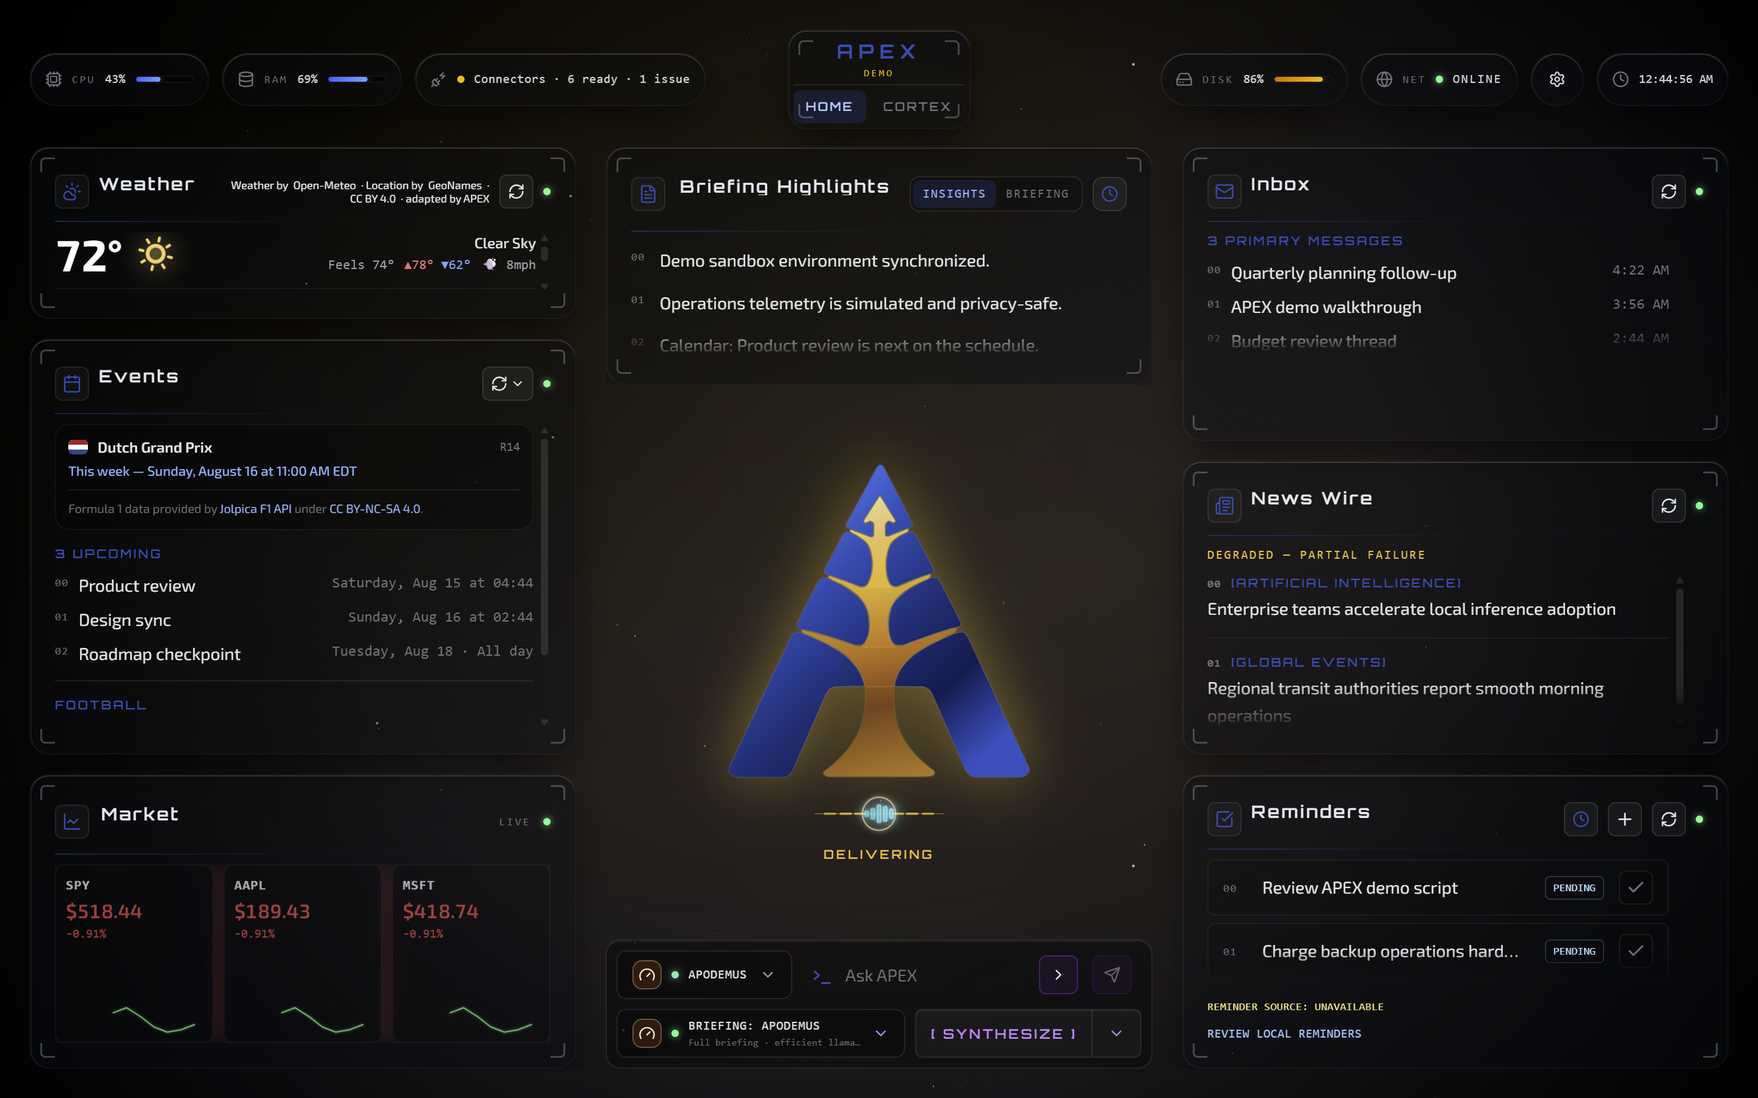
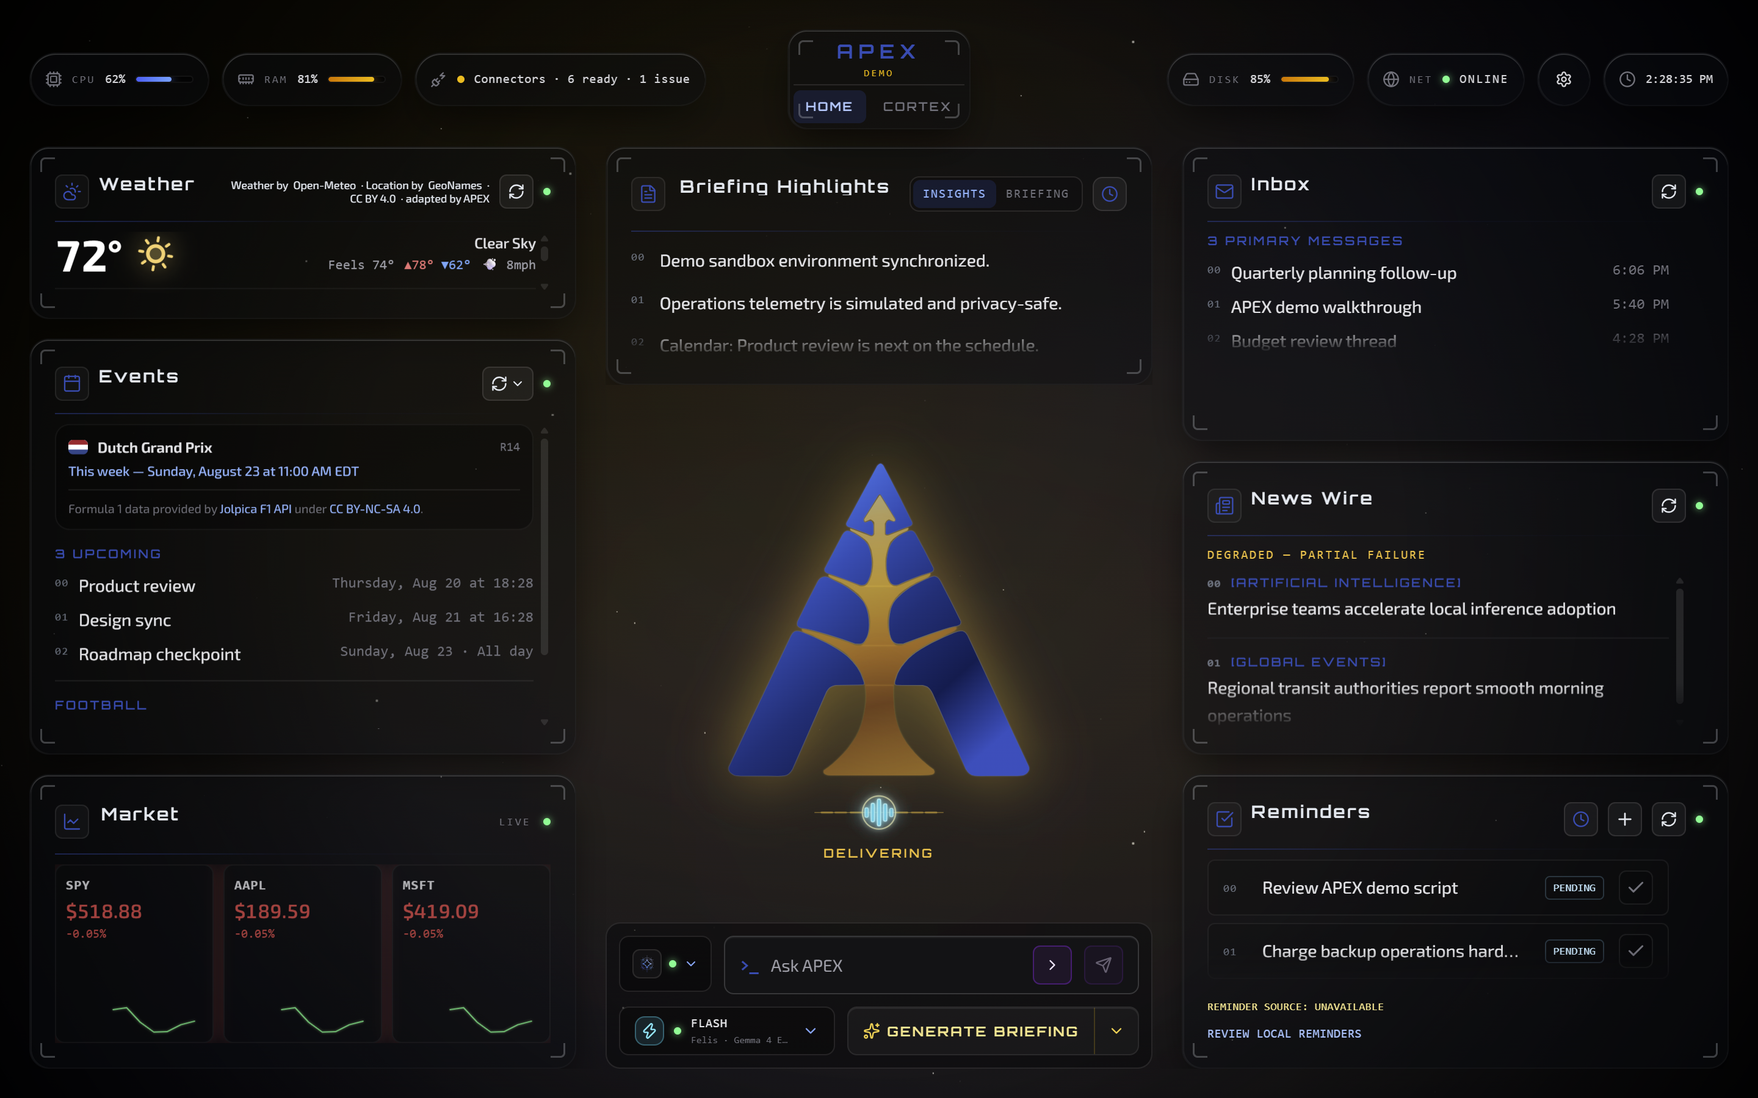
docs: reconcile and update documentation for the v2.0.0-beta.1 release (#369, #389)
Document the v2.0.0-beta.1 release, including persistent conversations, personal knowledge and retrieval, the Panthera/Felis model roster, and updated briefing modes.

diff --git a/scripts/check_docs.py b/scripts/check_docs.py
@@ -391,6 +391,10 @@ def check_release_version(root: Path) -> list[DocumentationIssue]:
     project_version = tomllib.loads(
         pyproject_path.read_text(encoding="utf-8")
     )["project"]["version"]
+    # Strip PEP 440 pre/post-release suffix (e.g. "2.0.0b1" -> "2.0.0") so
+    # the comparison works against the X.Y.Z extracted from changelog headings.
+    base_version = re.match(r"(\d+\.\d+\.\d+)", project_version)
+    comparable_version = base_version.group(1) if base_version else project_version
     match = RELEASE_HEADING_PATTERN.search(changelog_path.read_text(encoding="utf-8"))
     if match is None:
         return [
@@ -401,7 +405,7 @@ def check_release_version(root: Path) -> list[DocumentationIssue]:
                 "released changelog version could not be determined",
             )
         ]
-    if project_version == match.group(1):
+    if comparable_version == match.group(1):
         return []
     return [
         DocumentationIssue(

diff --git a/CHANGELOG.md b/CHANGELOG.md
@@ -2,44 +2,58 @@
 
 ---
 
-## Unreleased - Agent Family Consolidation (Checkpoint 0)
+## v2.0.0-beta.1 - Cortex: Persistent Context, World Model & Retrieval
 
-**In progress:** August 15, 2026
+**Released:** August 20, 2026
 
-APEX now exposes two Apex Agents: Panthera for cloud work and Felis for local work. Model, context, reasoning, effort, and hosted-tool settings live underneath those identities instead of in separate genus-based Agent names; each model profile determines its provider or local runtime. Panthera and Felis are at version 2.0.
+This milestone adds persistent conversation history, a personal knowledge store, and retrieval to Cortex, and consolidates the Agent roster to Panthera and Felis. Conversations are kept in SQLite across restarts. When the user shares information worth keeping, Cortex can store it as a structured knowledge record; retrieval then pulls relevant records and conversation history into each query automatically. An OpenRouter provider adds DeepSeek V4 Flash as the default cloud briefing model. Briefing modes are simplified to Flash (local), Focused (cloud), and Structured Digest. The Cortex Workspace moves to assistant-ui for thread management, and Home selectors now let you pick a model directly rather than an Agent name.
 
 ---
 
 ### What's New
 
-- Consolidated the product roster to Panthera and Felis. Former Agent identities such as Apodemus, Neotoma, Acinonyx, Neofelis, Delphinus, Orcinus, Sorex, and Mus are retired rather than migrated at runtime; existing local Agent settings must be updated to the Panthera/Felis model-first format.
-- Introduced Felis as the durable local Agent identity.
-- Moved cloud and local model catalogs under Panthera and Felis settings (`ask_apex.panthera`, `ask_apex.felis`) with schema version `16`; persisted route settings contain only the selected model.
-- Renamed llama.cpp router presets from Agent-based aliases such as `apodemus-16k` to model-based aliases such as `gemma-4-e2b-16k`; existing Agent-based aliases must be updated in machine-local presets.
-- Updated briefing modes to `panthera`, `felis`, and `structured_digest`, with Panthera falling back to Felis and then Structured Digest.
-- Replaced the Acinonyx-specific development sandbox with `ask_apex.sandbox_mode` under `DEV_MODE`, using the `sandbox` history partition and a restricted non-personal tool allowlist.
+- Cut the Agent roster to two: **Panthera** for cloud inference and **Felis** for local inference. Model profiles, context windows, effort levels, reasoning modes, and hosted tool settings live under each identity. The former genus-based Agent names (Apodemus, Neotoma, Acinonyx, etc.) are retired.
+- Added an OpenRouter provider. DeepSeek V4 Flash is now the default model for cloud briefing synthesis, replacing the previous OpenAI path.
+- Conversation history is now stored in SQLite and survives restarts and page reloads. Threads and messages are associated with sessions and can be branched.
+- The Cortex Workspace uses assistant-ui for the conversation rail, thread navigation, message branching, and response cards. Response metric cards are collapsible.
+- Added a personal knowledge store. Records carry source references, aliases, relationships, and lifecycle status.
+- When a conversation contains information worth keeping (preferences, decisions, observations, etc.), Cortex can extract it into the knowledge store. Conversation text stays separate from stored knowledge.
+- Added retrieval combining BM25 full-text search and vector embeddings. Relevant knowledge and conversation history are assembled into each Cortex query automatically, within a configurable token budget. A Context Inspector shows what was retrieved.
+- Added `search_apex_docs`, a native tool that searches `README.md` and `docs/**/*.md` using the same retrieval stack. Results are labeled as untrusted references in the UI.
+- Briefing modes are now Flash (local Felis), Focused (cloud Panthera via OpenRouter), and Structured Digest (no model). Automatic voice playback no longer triggers for raw Structured results.
+- Home model and briefing selectors now expose individual model choice, context-window size, reasoning mode, and effort level directly, rather than selecting a named Agent.
+- Added `ask_apex.sandbox_mode` under `DEV_MODE`. Sandbox queries use a separate history partition and a non-personal tool allowlist.
 
 ### Architecture Changes
 
-- Reduced `AGENT_SPECS` to Panthera and Felis in `core/agent/catalog.py`, with replaceable model profiles in `core/agent/model_catalog.py`.
-- Removed legacy Agent-key migration from settings normalization and model-catalog metadata; current settings resolve only through Panthera, Felis, and their selected model profiles.
-- Updated Cortex agent status, tool policy, synthesis routing, and local-model lifecycle to resolve configuration through Panthera and Felis.
+- `AGENT_SPECS` in `core/agent/catalog.py` now contains only Panthera and Felis. Model profiles in `core/agent/model_catalog.py` determine the provider and runtime; Agent-key migrations and legacy aliases are removed.
+- Conversation storage lives in `core/conversations/` and handles thread and message lifecycle, session metadata, and branching.
+- The knowledge store lives in `core/knowledge/` and persists entities, aliases, relations, and claims with UTC timestamps.
+- Retrieval lives in `core/retrieval/` and handles FTS5 + embedding-based search, documentation indexing, and incremental re-indexing on content changes.
+- `core/context/` assembles retrieved knowledge and conversation history into the prompt context for each Cortex request.
+- Added `core/agent/providers/openrouter.py` and `clients/openrouter_client.py` following the existing `InferenceProvider` contract.
+- Settings normalization bumped to schema version `16` with nested `ask_apex.panthera` and `ask_apex.felis` groups.
 
 ### API Changes
 
-- `GET /api/v1/agents` now returns Panthera and Felis with selected-model metadata and each Agent's `model_catalog`.
-- Settings and briefing contracts use schema version `16` with nested `panthera` and `felis` groups; provider/runtime routing is derived from the selected model.
+- `GET /api/v1/agents` returns Panthera and Felis with selected model metadata, availability status, and each Agent's `model_catalog`.
+- Added conversation endpoints under `/api/v1/cortex/conversations`: list, create, get, update, delete, and fork.
+- `POST /api/v1/cortex/query` now accepts `conversation_id`, `parent_message_id`, model overrides, and `history_partition: "sandbox"`.
+- Added `POST /api/v1/cortex/context/inspect` to expose what context was assembled for a request.
 - `POST /api/v1/cortex/local-model/load` accepts only `felis`.
-- `POST /api/v1/cortex/query` uses `history_partition: "sandbox"` for development sandbox queries.
+- Settings schema version is now `16`, with `panthera` and `felis` as top-level groups under `ask_apex`.
 
 ### Frontend Changes
 
-- Updated Agent selection, briefing controls, and Cortex inspector flows for the two-Agent model and per-Agent model catalogs.
+- Adopted `@assistant-ui/react` for the Cortex Workspace. Added `CortexConversationRail.tsx`, `CortexQueryBar.tsx`, `ContextInspector.tsx`, and `DocumentationSearchCard.tsx`.
+- `AgentSelector.tsx`, `ToolsSelector.tsx`, `HomeCommandRail.tsx`, and `SettingsPanel.tsx` updated for the two-Agent model catalog, briefing mode selector, and model override controls.
+- Chat layout refined: responsive logo placement, improved scrolling, and updated agent marks.
 
 ### Documentation Updates
 
-- Rewrote the Agent family guidance in `docs/identity-and-naming.md`, including Felis and Panthera 2.0 / Felis 2.0.
-- Updated `docs/api.md`, `docs/architecture.md`, `docs/configuration.md`, `docs/privacy.md`, `docs/cli.md`, `docs/getting-started.md`, `docs/decisions.md`, `docs/design-system.md`, `benchmarks/README.md`, `docs/examples/llama-cpp-apex-agents.preset.ini`, and `README.md`.
+- Rewrote `docs/identity-and-naming.md` for Panthera and Felis and the three briefing modes.
+- Updated `docs/api.md`, `docs/architecture.md`, `docs/configuration.md`, `docs/privacy.md`, `docs/cli.md`, `docs/getting-started.md`, `docs/decisions.md`, `docs/design-system.md`, and `README.md`.
+- Added assistant-ui MIT license notice to `THIRD_PARTY_NOTICES.md`.
 - Updated `scripts/check_docs.py` for the consolidated Agent and model documentation checks.
 
 ---

diff --git a/docs/identity-and-naming.md b/docs/identity-and-naming.md
@@ -33,14 +33,18 @@ Its outer shape forms an **A** and resembles the levels of a food-chain pyramid 
 ```text
 APEX
 ├── Home
+│   └── Briefing modes
+│       ├── Focused
+│       ├── Flash
+│       └── Structured
 └── Cortex
-    ├── Cortex workspace
+    ├── Cortex Workspace
     ├── Cortex Engine
     └── Apex Agents
         ├── Apex Panthera
-        │   └── Cloud model
+        │   └── Cloud models
         └── Apex Felis
-            └── Local model
+            └── Local models
 ```
 
 ### APEX
@@ -53,11 +57,23 @@ APEX
 
 Briefing modes are product behaviors, not Agent identities: **Flash**, **Focused**, and **Structured** are the only canonical mode names. Panthera and Felis remain Agent names used as resolved runtime metadata.
 
+### Briefing modes
+
+Briefing modes describe how APEX turns the current telemetry snapshot into a briefing. They are not Agents and do not identify the model that happens to execute them.
+
+**Focused** - the fuller analytical briefing. It uses a cloud model to interpret the available signals, identify priorities, conflicts, changes, and useful connections.
+
+**Flash** - the lightweight local briefing. It gives a quick view of what matters now and over the near term without the deeper analysis of Focused.
+
+**Structured** - the deterministic briefing. It presents the normalized facts directly without model interpretation.
+
+The names describe the kind of briefing being requested. Panthera and Felis may appear as runtime metadata when a model-backed mode is executed, but they remain Agent identities rather than briefing names.
+
 ### Cortex
 
 **Cortex** is where the operator interacts with the Agents in more detail.
 
-The **Cortex workspace** contains conversations, Agent and model selection, reasoning and local-model controls, tools, history, and execution details.
+The **Cortex Workspace** contains conversations, Agent and model selection, reasoning and local-model controls, tools, history, and execution details.
 
 The **Cortex Engine** is the backend that runs Agent requests, gathers context and tools, sends work to the selected model, and manages local models when needed.
 
@@ -91,8 +107,8 @@ Agent
 
 There are two Agents because there are two useful long-term roles:
 
-- **Apex Panthera** — `Cloud · Generalist`
-- **Apex Felis** — `Local · Private`
+- **Apex Panthera** - `Cloud · Generalist`
+- **Apex Felis** - `Local · Private`
 
 Panthera can move between supported cloud models without becoming a different Agent. Felis can move between supported local models or runtimes without becoming a different Agent.
 
@@ -122,10 +138,10 @@ Its selected model determines whether APEX uses a local runtime such as Ollama o
 
 The easiest way to think about the split is:
 
-- **Agent** — what role the user is choosing.
-- **Model** — what AI model does the work.
-- **Provider or runtime** — where that model runs.
-- **Model settings** — the controls that particular model supports.
+- **Agent** - what role the user is choosing.
+- **Model** - what AI model does the work.
+- **Provider or runtime** - where that model runs.
+- **Model settings** - the controls that particular model supports.
 
 Adding a new model should usually mean adding it under Panthera or Felis, not creating another Agent.
 

diff --git a/docs/api.md b/docs/api.md
@@ -116,16 +116,18 @@ Returns the resolved settings envelope. The current contract version is `18`.
       "panthera": {
         "model": "gpt-5.6-luna",
         "effort": "medium",
+        "personal_context_enabled": false,
         "hosted_tools": { "google_search": true, "google_maps": true, "x_search": true }
       },
       "felis": {
         "model": "gemma-4-E2B-Q4_K_M.gguf",
         "context_window": 16384,
-        "reasoning_mode": "none"
+        "reasoning_mode": "none",
+        "personal_context_enabled": false
       }
     },
     "tool_profiles": { "custom_profiles": [], "default_profile_by_agent": {} },
-    "briefing": { "default_mode": "panthera" },
+    "briefing": { "default_mode": "flash" },
     "voice": { "engine": "google", "gender": "female", "mode": "automatic" },
     "mcp": { "enabled": false, "servers": { "github": { "enabled": false }, "brave": { "enabled": false }, "alphavantage": { "enabled": false } } },
     "llama_cpp": { "enabled": false, "managed": false, "host": "http://127.0.0.1:8080", "executable_path": "", "preset_path": "" },
@@ -150,7 +152,7 @@ Accepts a strict partial patch for the optional user designation, connectors, sp
 ```json
 {
   "user_designation": "Chief",
-  "briefing": { "default_mode": "structured_digest" },
+  "briefing": { "default_mode": "structured" },
   "voice": { "mode": "manual" },
   "mcp": { "servers": { "github": { "enabled": true } } }
 }
@@ -207,7 +209,7 @@ Evaluates warnings and non-overridable blockers for one intended operation witho
 ```json
 {
   "operation": "activate_with_briefing",
-  "briefing_mode": "panthera",
+  "briefing_mode": "flash",
   "connectors": ["weather", "calendar"],
   "force": false,
   "acknowledged_warnings": []
@@ -225,10 +227,10 @@ Calling an operation endpoint directly skips advisory acknowledgement; operation
 Runs the full compatibility workflow: force-refresh telemetry, generate with an optional requested mode or configured default, persist normal-mode briefing history, and apply automatic voice-delivery rules.
 
 ```json
-{ "mode": "panthera" }
+{ "mode": "flash" }
 ```
 
-The body is optional. Valid modes are `panthera`, `felis`, and `structured_digest`. The `felis` briefing mode always uses the fixed `gemma-4-E2B-Q4_K_M.gguf` llama.cpp profile with no reasoning; Cortex's interactive Felis model and runtime settings do not affect it.
+The body is optional. Valid modes are `focused`, `flash`, and `structured`. The `flash` briefing mode always uses the fixed `gemma-4-E2B-Q4_K_M.gguf` llama.cpp profile with no reasoning; Cortex's interactive Felis model and runtime settings do not affect it.
 
 - `200` — transcript, compatibility telemetry strings, typed digest, and runtime metadata.
 - `409` — another full trigger owns execution.
@@ -241,7 +243,7 @@ Runtime metadata includes `run_id`, requested mode, resolved synthesis provider/
 Generates from the current telemetry snapshot without calling connectors.
 
 ```json
-{ "snapshot_id": "current-snapshot-uuid", "mode": "structured_digest" }
+{ "snapshot_id": "current-snapshot-uuid", "mode": "structured" }
 ```
 
 - `200` — the same `BriefingResponse` envelope used by the full trigger.

diff --git a/docs/architecture.md b/docs/architecture.md
@@ -144,15 +144,15 @@ Connector statuses feed equal-weight Sync Health scoring. Disabled connectors ar
 
 Briefing orchestration converts one collected snapshot into bounded `BriefingFacts`. Flash and Focused receive their own factual projections wrapped in `<untrusted_connector_data>` markers; Structured renders the complete normalized facts. Display strings, Agent history, and Agent tools are not forwarded to a briefing model.
 
-The current breaking briefing modes are `flash`, `focused`, and `structured`. Flash is the default; historical Agent-named values are not accepted.
+The current breaking briefing modes are `focused`, `flash`, and `structured`. Flash is the default; historical Agent-named values are not accepted.
 
 | Mode | Provider | Current model or behavior |
 |---|---|---|
-| Panthera | OpenRouter | `deepseek/deepseek-v4-flash-0731` at fixed `none` reasoning |
-| Felis | llama.cpp | `gemma-4-E2B-Q4_K_M.gguf`, cold-load synthesis at 16K |
-| Structured Digest | None | Deterministic synthesis from typed facts |
+| Focused | OpenRouter | `deepseek/deepseek-v4-flash-0731` at `native_effort="high"` |
+| Flash | llama.cpp | `gemma-4-E2B-Q4_K_M.gguf`, cold-load synthesis at 16K, no reasoning |
+| Structured | None | Deterministic synthesis from typed facts |
 
-An explicit local mode is not silently replaced by another local model. The Panthera path falls back to Felis once, then Structured Digest; an explicit Felis failure goes directly to Structured Digest. Runtime metadata records the requested mode, resolved provider/Agent/model, fallback steps, usage, timings, and estimated provider cost. Every unsuccessful model path ends in Structured Digest with a stable fallback reason.
+Flash fails directly to Structured; there is no intermediate fallback. Focused tries Flash as a secondary fallback, and falls through to Structured only if both fail. Structured has no fallback. Runtime metadata records the requested mode, resolved provider/Agent/model, ordered fallback steps, usage, timings, and estimated provider cost.
 
 Normal-mode generation persists the transcript, digest, and runtime metadata to the SQLite briefing ledger and keeps the newest 50 rows. Demo mode returns static history and performs no normal-mode write.
 

diff --git a/docs/configuration.md b/docs/configuration.md
@@ -39,7 +39,7 @@ Arrays replace their tracked counterparts rather than merging item by item. This
 
 ## Runtime-editable settings
 
-The HUD Runtime Settings panel and `GET` / `PATCH /api/v1/settings` expose schema version `16`.
+The HUD Runtime Settings panel and `GET` / `PATCH /api/v1/settings` expose schema version `18`.
 
 | Group | Editable values |
 |---|---|
@@ -119,6 +119,18 @@ Weather resolves the prompt-specified location or `TARGET_LOCATION` through Open
 APEX has two Apex Agents: **Panthera** for cloud work and **Felis** for local work. Model selection sits underneath the Agent. The selected model determines Panthera's provider or Felis's local runtime and controls which reasoning, hosted-tool, context, or local-runtime options are available.
 
 Current default model mappings used by documentation checks are `panthera -> gpt-5.6-luna`; `felis -> gemma-4-E2B-Q4_K_M.gguf`; legacy Agent settings are not migrated at runtime, so update them to the Panthera/Felis model-first format.
+
+## Model stability
+
+Model stability shows how confident APEX is in a model’s role and behavior. It does not necessarily match the provider’s own label.
+
+- **Stable** - well understood and proven for its intended use in APEX.
+
+- **Preview** - looks useful, but still needs more testing before its role is fully settled.
+
+- **Experimental** - still being tested to see whether it fits APEX at all, or what role it should have.
+
+Stability is separate from availability. A Stable model can still be limited to Dev Mode simply because its intended role is not integrated yet.
 
 ### Panthera
 

diff --git a/README.md b/README.md
@@ -45,13 +45,13 @@ After a Microsoft To Do list is selected, its incomplete tasks become the Home r
 <p align="center">
   <img
   src="docs/assets/apex-cortex.png"
-  alt="APEX Cortex workspace showing an Agent response, tool trace, structured reminder results, reasoning selection, and context controls"
+  alt="APEX Cortex workspace showing a persistent conversation, briefing-history tool result, Agent and model controls, and personal context settings"
   width="900"
 >
 </p>
 
 <p align="center">
-  <em>The Cortex workspace using an Apex Agent to query approved reminder data and return a structured result.</em>
+  <em>The Cortex workspace using an Apex Agent to review persisted briefing history, with conversation, model, tool, and personal context controls available alongside the chat.</em>
 </p>
 
 ### Keeps runtime control visible
@@ -125,7 +125,7 @@ When the backend is already running, the included CLI can inspect APEX, run one 
 ```powershell
 uv run apex status
 uv run apex agents
-uv run apex ask "What needs my attention?" --profile core_apex
+uv run apex ask "What needs my attention?" --profile personal_ops
 uv run apex briefing --mode structured
 uv run apex actions list
 ```

diff --git a/frontend/README.md b/frontend/README.md
@@ -54,6 +54,7 @@ Do not expand `useApexData` into another global store. Use the focused owner for
 | `useToolPreflight` | Debounced estimated token breakdown for the next request |
 | `useMarketData` | Independent market polling with stale fallback |
 | `useSystemDiagnostics` | Independent host diagnostics polling |
+| `useContextInspector` | Context assembly preview, reference list, and namespace breakdown for the current request |
 
 `App.tsx` coordinates these owners but should not duplicate their internal state machines.
 

diff --git a/docs/cli.md b/docs/cli.md
@@ -13,6 +13,8 @@ uv run apex ask "What needs my attention?"
 uv run apex ask "Review my plan" --agent panthera --effort focused --profile daily_planning
 uv run apex briefing
 uv run apex briefing --mode structured
+uv run apex context status
+uv run apex context prepare
 uv run apex actions list
 uv run apex actions show <action-id>
 uv run apex actions approve <action-id>
